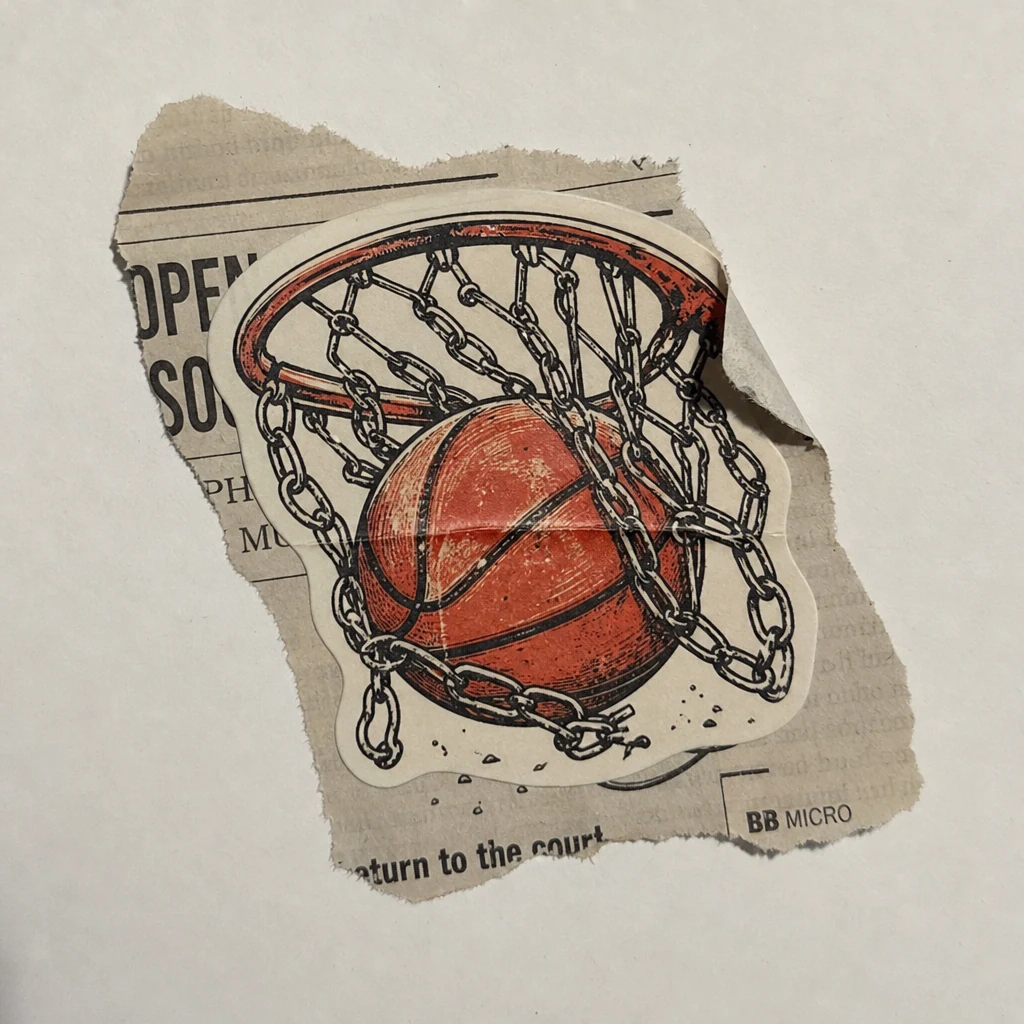
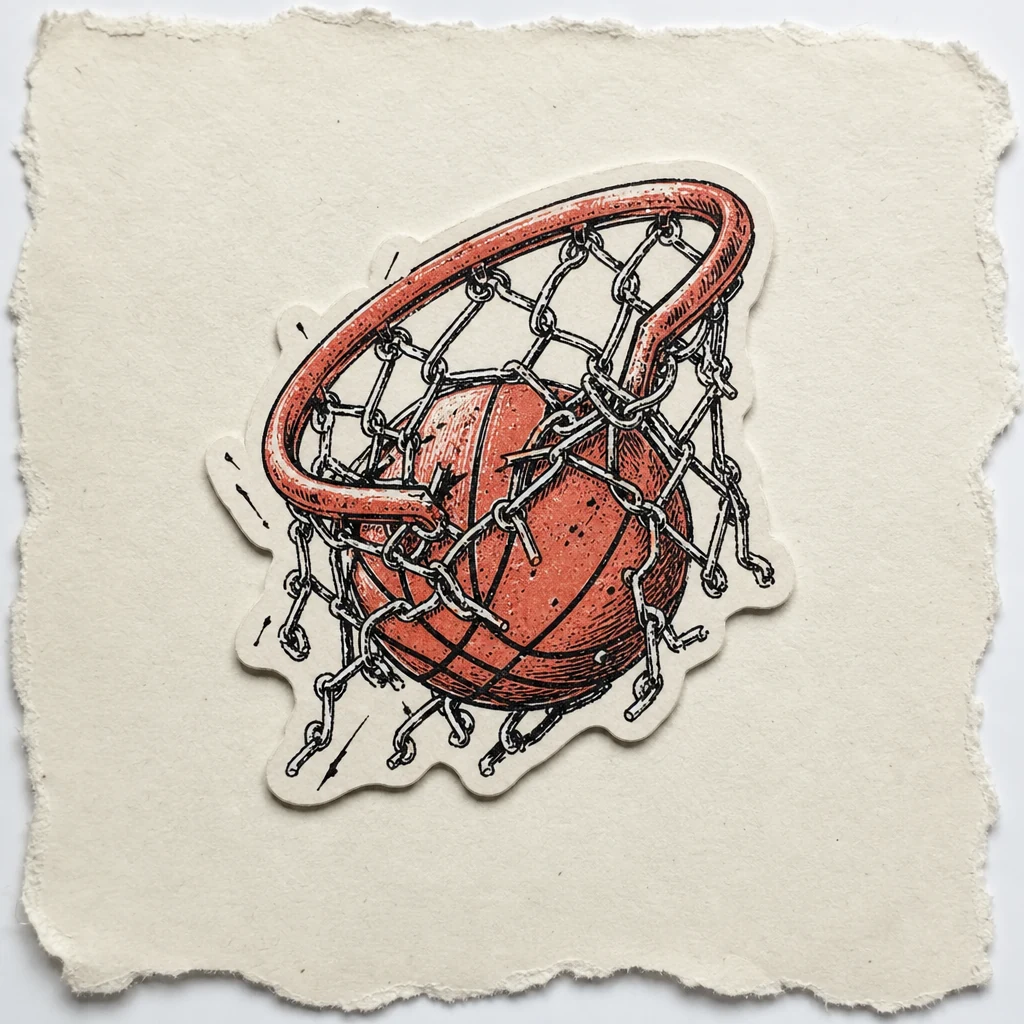
chore(collage): regenerated hoops/paintball badges, add note + tape assets

diff --git a/public/collage/README.md b/public/collage/README.md
@@ -1,10 +1,19 @@
-# Collage asset pack
+# Collage asset pack — clubs clubhouse wall
 
-Generated 2026-10-20 for the clubhouse-wall redesign. 1024x1024, webp + jpg.
+Generated 2026-10-20. 1024x1024, webp + jpg (jpg for OG/fallbacks). `_contact-sheet.jpg` shows the set.
 
-- paper-kraft, paper-newsprint, paper-cork — surface textures
-- sticker-cars, sticker-hoops, sticker-run, sticker-hardware, sticker-paintball — club badges (sticker on torn scrap)
-- cutout-helmet, cutout-sneaker — magazine cut-outs on white
+| asset | what it is | notes |
+| --- | --- | --- |
+| paper-kraft | scanned kraft paper with creases, coffee ring, registration marks | board + scrap fill, tiles |
+| paper-newsprint | blank aged newsprint sheet | notice paper, scrap fill |
+| sticker-cars | die-cut helmet sticker on a torn kraft scrap | club badge |
+| sticker-hoops | die-cut hoop sticker on cream scrap | club badge |
+| sticker-run | die-cut running shoe sticker on kraft strip | club badge |
+| sticker-hardware | die-cut soldering iron sticker on newsprint | club badge |
+| sticker-paintball | die-cut paintball mask sticker on kraft | club badge |
+| cutout-helmet | magazine cut-out, white ground | `mix-blend-mode: multiply` |
+| cutout-sneaker | magazine cut-out, white ground | `mix-blend-mode: multiply` |
+| scrap-note | handwritten "TRACK DAY / SAT 7AM / convoy from Pier 2" card | hero detail — real copy, reuse for other notices |
+| tape-strip | two masking-tape strips on white | `multiply`, rotate freely |
 
-Cut-outs sit on white: use `mix-blend-mode: multiply` (or a `clip-path`/mask) so the white drops out on paper.
-Prompted as flatbed scans / phone snapshots, not renders — keep them mildly imperfect in layout (rotation, tape, overlap).
+Usage rules: rotate every scrap off-axis (0.5–3deg), never centre a sticker exactly, let tape cross a paper edge, keep drop shadows short and soft (paper is thin). Badges were shot with their own paper scrap, so place them on paper, not on a flat colour. Missing from this batch (generate on demand later, do not fake in CSS): cork board surface, polaroid frame, stamped rubber-stamp marks.
